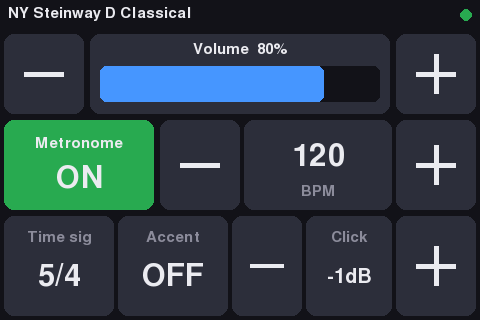
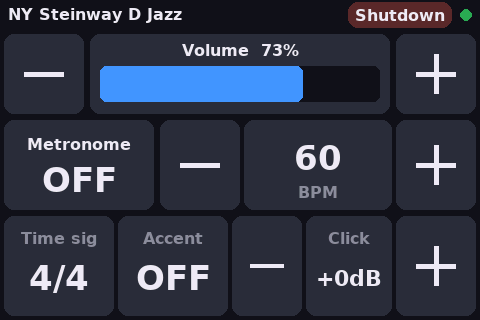
Add Shutdown button with confirmation
A Shutdown button in the status bar opens a confirm dialog (auto-cancels
after 10 s). On confirm the screen is blanked and `systemctl poweroff` is
run (configurable with --shutdown-cmd; "" hides the button). Under X the
black window is held up through SIGTERM until X exits, and /dev/fbN is
blanked directly, so the SPI panel is left black after halt.

Also make find_framebuffer prefer the fbtft LCD over the HDMI framebuffer
when both are 480x320.

diff --git a/pianoteq_touch.py b/pianoteq_touch.py
@@ -238,16 +238,48 @@ class WindowBackend:
 
 
 def find_framebuffer():
-    """Pick the framebuffer whose size is 480x320 / 320x480 (the SPI LCD)."""
-    for path in sorted(glob.glob("/sys/class/graphics/fb*")):
+    """Pick the SPI LCD's framebuffer: prefer an fbtft driver (fb_ili9486
+    etc.) or a 480x320 / 320x480 device that isn't the HDMI/GPU one."""
+    best, best_score = None, -1
+    for path in sorted(glob.glob("/sys/class/graphics/fb[0-9]*")):
         try:
             with open(os.path.join(path, "virtual_size")) as f:
                 w, h = (int(v) for v in f.read().strip().split(","))
-        except OSError:
+            with open(os.path.join(path, "name")) as f:
+                name = f.read().strip().lower()
+        except (OSError, ValueError):
             continue
+        score = 0
         if (w, h) in ((W, H), (H, W)):
-            return "/dev/" + os.path.basename(path)
+            score += 1
+        if name.startswith("fb_") or "ili" in name:
+            score += 2
+        if "bcm2708" in name or "vc4" in name:   # HDMI / GPU framebuffer
+            score -= 1
+        if score > best_score:
+            best, best_score = "/dev/" + os.path.basename(path), score
+    if best:
+        return best
     return "/dev/fb1" if os.path.exists("/dev/fb1") else "/dev/fb0"
+
+
+def blank_lcd(fbdev=None):
+    """Write black straight into the LCD framebuffer (best effort)."""
+    try:
+        fbdev = fbdev or find_framebuffer()
+        sysfs = "/sys/class/graphics/" + os.path.basename(fbdev)
+        with open(sysfs + "/virtual_size") as f:
+            h = int(f.read().strip().split(",")[1])
+        try:
+            with open(sysfs + "/stride") as f:
+                stride = int(f.read().strip())
+        except OSError:
+            with open(sysfs + "/bits_per_pixel") as f:
+                stride = W * int(f.read().strip()) // 8
+        with open(fbdev, "r+b", buffering=0) as fb:
+            fb.write(b"\0" * (stride * h))
+    except Exception as e:
+        print("Could not blank LCD:", e, file=sys.stderr)
 
 
 def find_touch_device():
@@ -505,8 +537,14 @@ class App:
     REPEAT_DELAY = 0.45
     REPEAT_RATE = 0.12
 
-    def __init__(self, backend, state, worker):
+    CONFIRM_TIMEOUT = 10.0
+
+    def __init__(self, backend, state, worker, shutdown_cmd=None):
         self.b, self.s, self.w = backend, state, worker
+        self.shutdown_cmd = shutdown_cmd
+        self.confirm_until = 0.0      # shutdown dialog open while time < this
+        self.shutting_down = False
+        self.error_msg, self.error_until = "", 0.0
         pygame.font.init()
         self.fonts = make_fonts()
         self.pressed = None
@@ -542,6 +580,15 @@ class App:
             Button(self.r_acc, self.toggle_accent),
             Button(self.r_clk_minus, lambda: self.step_click(-1), True),
             Button(self.r_clk_plus, lambda: self.step_click(+1), True),
+        ]
+        if shutdown_cmd:
+            self.r_power = R(W - 132, 2, 104, 26)
+            self.buttons.append(Button(self.r_power, self.open_confirm))
+        # Shutdown confirmation dialog
+        self.r_dlg = R(30, 40, 420, 250)
+        self.dlg_buttons = [
+            Button(R(50, 190, 180, 80), self.close_confirm),
+            Button(R(250, 190, 180, 80), self.do_shutdown),
         ]
         self.touch_pos = (0, 0)
 
@@ -610,6 +657,45 @@ class App:
         self.w.send("metronome", volume_db=nxt)
         self.changed()
 
+    # -- shutdown -------------------------------------------------------
+    def confirm_open(self):
+        return time.time() < self.confirm_until
+
+    def open_confirm(self):
+        self.confirm_until = time.time() + self.CONFIRM_TIMEOUT
+        self.pressed = None
+
+    def close_confirm(self):
+        self.confirm_until = 0.0
+        self.pressed = None
+
+    def do_shutdown(self):
+        """Blank the screen and power off.  The black window is kept up while
+        the system stops (see main), so the LCD is left showing black."""
+        self.confirm_until = 0.0
+        self.pressed = None
+        s = self.b.surface
+        s.fill((0, 0, 0))
+        draw_text(s, "Shutting down...", self.fonts["med"], DIM, (W // 2, H // 2))
+        self.b.flip()
+        time.sleep(1.5)
+        self.shutting_down = True
+        self.draw()
+        import shlex
+        import subprocess
+        try:
+            r = subprocess.run(shlex.split(self.shutdown_cmd), capture_output=True,
+                               text=True, timeout=30)
+            err = None if r.returncode == 0 else (r.stderr.strip() or "exit %d" % r.returncode)
+        except Exception as e:
+            err = str(e)
+        if err:
+            print("Shutdown failed:", err, file=sys.stderr)
+            self.shutting_down = False
+            self.error_msg = "Shutdown failed: " + err.splitlines()[-1]
+            self.error_until = time.time() + 6
+            self.dirty = True
+
     # -- input ----------------------------------------------------------
     def handle(self, ev):
         kind = ev[0]
@@ -618,8 +704,11 @@ class App:
         pos = ev[1]
         self.touch_pos = pos
         now = time.time()
+        if self.shutting_down:
+            return True
+        buttons = self.dlg_buttons if self.confirm_open() else self.buttons
         if kind == "down":
-            for btn in self.buttons:
+            for btn in buttons:
                 if btn.rect.collidepoint(pos):
                     self.pressed = btn
                     self.press_time = now
@@ -665,13 +754,21 @@ class App:
             preset = self.s.preset
             vol = self.s.volume
             met = dict(self.s.met)
+        if self.shutting_down:
+            s.fill((0, 0, 0))
+            self.b.flip()
+            return
         s.fill(BG)
 
         # Status bar
         name = preset if connected else "Waiting for Pianoteq..."
         img = f["small"].render(name, True, TEXT if connected else DIM)
-        s.blit(img, (8, (self.r_status.h - img.get_height()) // 2))
+        name_w = (self.r_power.x - 16) if self.shutdown_cmd else (W - 36)
+        s.blit(img, (8, (self.r_status.h - img.get_height()) // 2),
+               area=pygame.Rect(0, 0, name_w, img.get_height()))
         pygame.draw.circle(s, GREEN if connected else RED, (W - 14, 15), 6)
+        if self.shutdown_cmd:
+            self.panel(self.r_power, (90, 40, 40), "Shutdown", f["small"])
 
         # Volume
         self.pm_button(self.r_vol_minus, False)
@@ -722,6 +819,27 @@ class App:
         label = "mute" if db <= -96 else "{:+g}dB".format(db)
         draw_text(s, label, f["med"], TEXT, (self.r_clk.centerx, self.r_clk.y + 62))
 
+        if self.confirm_open():
+            shade = pygame.Surface((W, H), pygame.SRCALPHA)
+            shade.fill((0, 0, 0, 170))
+            s.blit(shade, (0, 0))
+            pygame.draw.rect(s, PANEL, self.r_dlg, border_radius=14)
+            pygame.draw.rect(s, DIM, self.r_dlg, 2, border_radius=14)
+            draw_text(s, "Shut down the Pi?", f["big"], TEXT,
+                      (self.r_dlg.centerx, self.r_dlg.y + 50))
+            draw_text(s, "Wait ~20 s after the screen goes black to unplug.",
+                      f["small"], DIM, (self.r_dlg.centerx, self.r_dlg.y + 100))
+            cancel, ok = self.dlg_buttons
+            self.panel(cancel.rect, PANEL_DOWN, "Cancel", f["med"])
+            self.panel(ok.rect, RED, "Shut down", f["med"])
+
+        if time.time() < self.error_until:
+            r = pygame.Rect(0, H - 34, W, 34)
+            pygame.draw.rect(s, RED, r)
+            img = f["small"].render(self.error_msg, True, TEXT)
+            s.blit(img, (8, r.y + (r.h - img.get_height()) // 2),
+                   area=pygame.Rect(0, 0, W - 16, img.get_height()))
+
         self.b.flip()
 
     # -- main loop -------------------------------------------------------
@@ -734,6 +852,12 @@ class App:
             with self.s.lock:
                 v = self.s.version
             now = time.time()
+            if self.confirm_until and now >= self.confirm_until:
+                self.close_confirm()   # dialog timed out
+                self.dirty = True
+            if self.error_until and now >= self.error_until:
+                self.error_until = 0.0
+                self.dirty = True
             # Redraw on changes; also every few seconds in case the console
             # scribbled over the framebuffer.
             if self.dirty or v != self.last_version or now - self.last_full_flush > 5:
@@ -776,6 +900,9 @@ def main():
     ap.add_argument("--calibrate", action="store_true",
                     help="run touch calibration (fb mode) and save it")
     ap.add_argument("--fullscreen", action="store_true", help="fullscreen in window mode")
+    ap.add_argument("--shutdown-cmd", default="systemctl poweroff",
+                    help='command run by the Shutdown button (default: "%(default)s"; '
+                         '"" hides the button)')
     args = ap.parse_args()
 
     backend_name = args.backend
@@ -804,11 +931,41 @@ def main():
     state = State()
     worker = Worker(Pianoteq(args.pianoteq_host, args.pianoteq_port), state)
     worker.start()
+    app = App(backend, state, worker, shutdown_cmd=args.shutdown_cmd or None)
+
+    def lcd_dev():
+        return getattr(backend, "fbdev", None) or args.fbdev or cfg.get("fbdev")
+
+    def on_sigterm(signum, frame):
+        if not app.shutting_down:
+            raise KeyboardInterrupt
+        if isinstance(backend, FramebufferBackend):
+            os._exit(0)          # we drew black straight to the LCD already
+        # Under X: if this window closed now, X would repaint the desktop onto
+        # the LCD and that image would stay there after power-off.  So keep the
+        # black window up until X itself is killed (pygame then dies with it),
+        # with a fallback exit in case X outlives us.
+        if not getattr(on_sigterm, "armed", False):
+            on_sigterm.armed = True
+
+            def give_up():
+                blank_lcd(lcd_dev())
+                os._exit(0)
+            threading.Timer(15, give_up).start()
+
+    import signal
+    signal.signal(signal.SIGTERM, on_sigterm)
     try:
-        App(backend, state, worker).run()
+        app.run()
     except KeyboardInterrupt:
         pass
+    except pygame.error:
+        if not app.shutting_down:
+            raise
     finally:
+        if app.shutting_down:
+            blank_lcd(lcd_dev())
+            os._exit(0)
         backend.close()
 
 

diff --git a/README.md b/README.md
@@ -19,6 +19,15 @@ The display re-reads Pianoteq every 2 s, so changes made elsewhere (web remote,
 MIDI) show up. The top line shows the current preset, with a green or red
 connection dot.
 
+**Shutdown** (top right) asks for confirmation, blanks the LCD and runs
+`systemctl poweroff`. That works without sudo when the user has an active
+console session, as with autologin + `startx`. Check with
+`busctl call org.freedesktop.login1 /org/freedesktop/login1 org.freedesktop.login1.Manager CanPowerOff`,
+which should print `"yes"`. To use a different command, pass `--shutdown-cmd`,
+e.g. `--shutdown-cmd "sudo -n /sbin/poweroff"`; `--shutdown-cmd ""` hides the
+button. Under X the app keeps its black window up until X stops, so the panel
+is left black rather than showing the desktop after power-off.
+
 ![screenshot](screenshot.png)
 
 ## Install
@@ -106,6 +115,7 @@ cleaner fix is to keep the console on HDMI: add `fbcon=map:0` to
 --backend auto|fb|window    --fullscreen
 --fbdev /dev/fbN            --touchdev /dev/input/eventN
 --rotate 0|90|180|270       --calibrate
+--shutdown-cmd "systemctl poweroff"
 ```
 
 Press Esc or q to quit in window mode.
